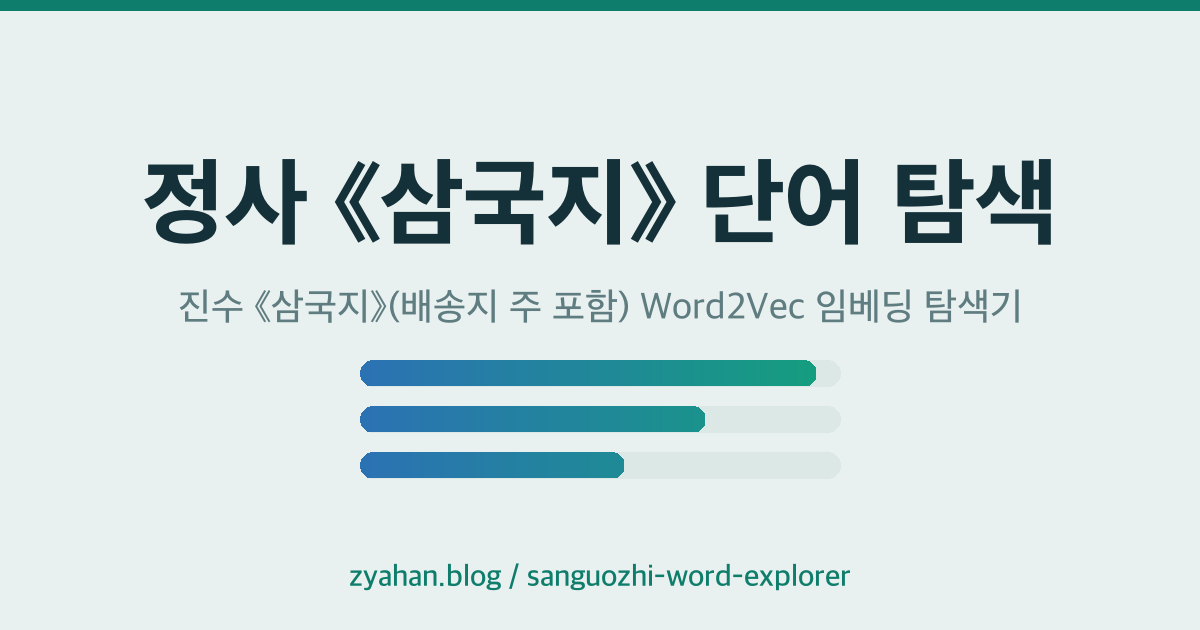
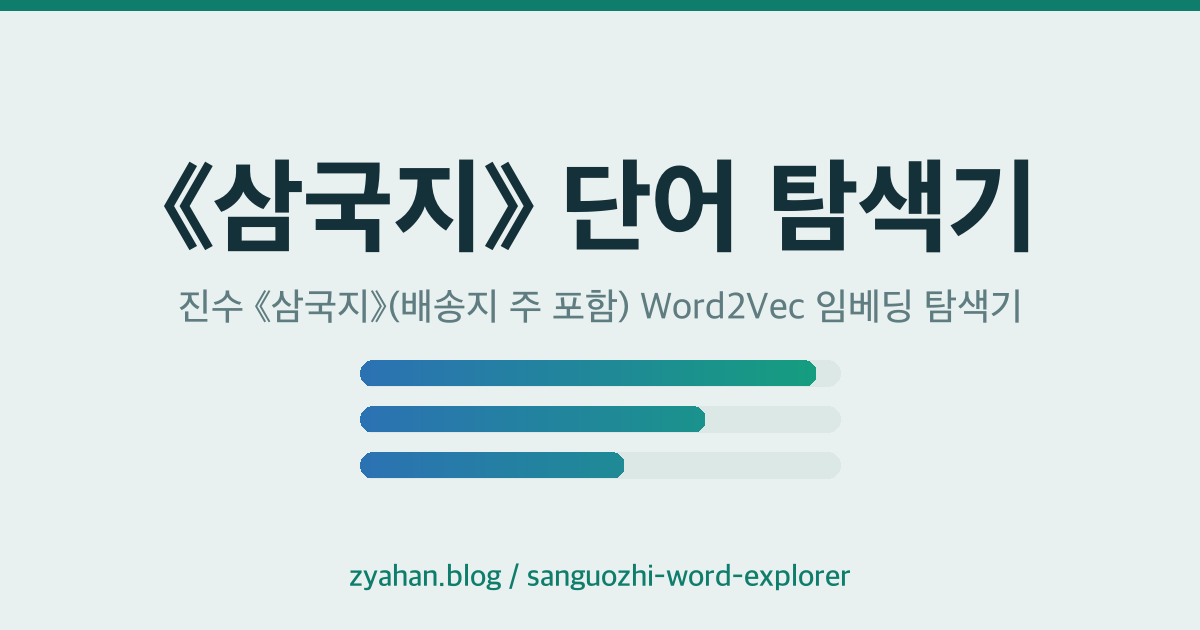
Rename to 《삼국지》 단어 탐색기; refresh subtitle, OG image/url
제목을 '《삼국지》 단어 탐색기'로 변경(title·OG·twitter·h1·OG 이미지),
부제 문구 수정, og:url 후행 슬래시 제거.

Changed region(s): [[0.1233, 0.2413, 0.8942, 0.4222]]

diff --git a/web/index.html b/web/index.html
@@ -3,22 +3,22 @@
 <head>
 <meta charset="utf-8">
 <meta name="viewport" content="width=device-width, initial-scale=1">
-<title>정사 《삼국지》 단어 탐색</title>
-<meta name="description" content="진수 《삼국지》(배송지 주 포함)로 학습한 Word2Vec 임베딩 탐색기 — 한자 단어의 쓰임을 코사인 유사도로 비교하고, 비슷한 단어·스파이를 찾아보세요.">
+<title>《삼국지》 단어 탐색기</title>
+<meta name="description" content="정사 《삼국지》(배송지 주 포함)에서 학습한 Word2Vec 임베딩 탐색기 — 한자 단어의 쓰임을 코사인 유사도로 비교하고, 비슷한 단어·스파이를 찾아보세요.">
 <!-- Open Graph / SNS 공유 카드 -->
 <meta property="og:type" content="website">
-<meta property="og:site_name" content="정사 《삼국지》 단어 탐색">
-<meta property="og:title" content="정사 《삼국지》 단어 탐색">
-<meta property="og:description" content="진수 《삼국지》(배송지 주 포함)로 학습한 Word2Vec 임베딩 탐색기 — 한자 단어의 쓰임을 코사인 유사도로 비교하고, 비슷한 단어·스파이를 찾아보세요.">
-<meta property="og:url" content="https://zyahan.blog/sanguozhi-word-explorer/">
+<meta property="og:site_name" content="《삼국지》 단어 탐색기">
+<meta property="og:title" content="《삼국지》 단어 탐색기">
+<meta property="og:description" content="정사 《삼국지》(배송지 주 포함)에서 학습한 Word2Vec 임베딩 탐색기 — 한자 단어의 쓰임을 코사인 유사도로 비교하고, 비슷한 단어·스파이를 찾아보세요.">
+<meta property="og:url" content="https://zyahan.blog/sanguozhi-word-explorer">
 <meta property="og:image" content="https://zyahan.blog/assets/images/sanguozhi-explorer-og-image.png">
 <meta property="og:image:width" content="1200">
 <meta property="og:image:height" content="630">
-<meta property="og:image:alt" content="정사 《삼국지》 단어 탐색 — Word2Vec 임베딩 탐색기">
+<meta property="og:image:alt" content="《삼국지》 단어 탐색기 — Word2Vec 임베딩 탐색기">
 <meta property="og:locale" content="ko_KR">
 <meta name="twitter:card" content="summary_large_image">
-<meta name="twitter:title" content="정사 《삼국지》 단어 탐색">
-<meta name="twitter:description" content="진수 《삼국지》 Word2Vec 임베딩 탐색기 — 한자 단어의 쓰임을 코사인 유사도로 비교하고, 비슷한 단어·스파이를 찾아보세요.">
+<meta name="twitter:title" content="《삼국지》 단어 탐색기">
+<meta name="twitter:description" content="정사 《삼국지》(배송지 주 포함)에서 학습한 Word2Vec 임베딩 탐색기 — 한자 단어의 쓰임을 코사인 유사도로 비교하고, 비슷한 단어·스파이를 찾아보세요.">
 <meta name="twitter:image" content="https://zyahan.blog/assets/images/sanguozhi-explorer-og-image.png">
 <link rel="preconnect" href="https://fonts.googleapis.com">
 <link rel="preconnect" href="https://fonts.gstatic.com" crossorigin>
@@ -28,10 +28,10 @@
 <body>
 <header class="site-head">
   <a class="blog-link" href="https://zyahan.blog" rel="noopener">미남과 오컬트와 자살</a>
-  <h1>정사 《삼국지》 단어 탐색</h1>
-  <p class="subtitle">진수의 《삼국지》 원문(배송지 주 포함)으로 학습한 Word2Vec 모델로 한자 단어의 쓰임을 비교합니다.
+  <h1>《삼국지》 단어 탐색기</h1>
+  <p class="subtitle">진수의 《삼국지》 원문과 배송지의 주석 텍스트에서 학습한 Word2Vec 모델로 한문 단어의 쓰임을 비교합니다. 
   <strong>한글 독음으로도 검색</strong>할 수 있어요.</p>
-  <p class="meta">vector_size=100 · skip-gram · 어휘 <span id="vocabCount">…</span>개 · 전부 브라우저에서 계산(서버 없음)</p>
+  <p class="meta">vector_size=100 · skip-gram · 어휘 <span id="vocabCount">…</span>개</p>
 </header>
 
 <nav class="tabs" id="tabs">
